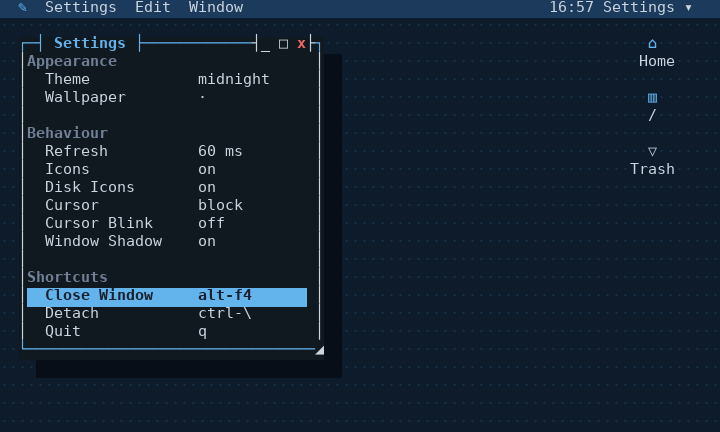
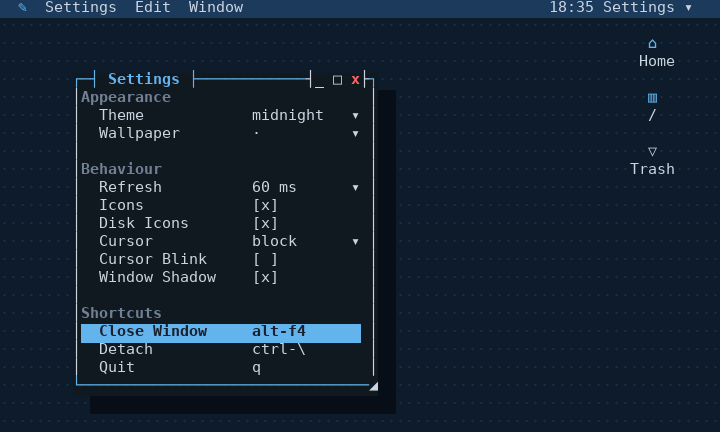
A widget library: a checkbox and a dropdown, proved on Settings
dt_check and dt_wdrop are draw helpers plus a per-window hit registry
(WG): an app draws what it wants shown and gets a tag back from
dt_hit when that region is clicked, the same contract _click already
has everywhere else. dt_droplist opens a real popup of choices
anchored under a dropdown, reusing dt_context_open and the MB/MI menu
machinery rather than a second popup system -- a dropdown is a
context menu with nowhere on the desktop it belongs to.

panel.hibr's Settings now draws its on/off rows as real checkboxes
and its multi-value rows as a dropdown caret instead of plain on/off
and cycling text, with no change to how they're driven (left/right/
enter still cycles a value; the widgets are the draw layer, proving
the library without touching the panel's well-tested activation
logic in the same pass).

Caught two of my own bugs writing the test coverage, not product
bugs: a name collision (the dropdown's own displayed value and its
first offered choice were both "one", so sc.find() matched the wrong
one) and the already-documented "a note is cleared by the next key,
including the quit sequence's own" trap, on a check I wrote without
first checking for it. Fixed by renaming the fixture's value and by
checking the note directly before run()'s own qy teardown, the same
pattern the about-note test already uses.

tests/desktop.py 154/154, tests/apps.py 112/112.
docs/desktop.md documents the widget contracts; the Icons test that
[…]

diff --git a/tests/desktop.py b/tests/desktop.py
@@ -160,6 +160,58 @@ check("Zoom is dimmed on the Window menu for it",
 check("and so is Resize",
       sc.find("Resize") is not None and sc.at(2, 22) != "r", sc)
 
+# --- widgets -----------------------------------------------------------
+#
+# dt_check and dt_wdrop are draw helpers plus a per-window hit registry
+# (WG); an app's own _click asks dt_hit which one, if any, was clicked and
+# updates its own state, the same contract as everywhere else in the
+# desktop. dt_droplist opens a popup of choices anchored under a dropdown,
+# reusing the same context-menu machinery a right-click uses.
+WIDGETS = ('dt_app wg "Widgets" 10 30 once "▢"\n'
+           'declare -A WGS\n'
+           'wg_draw() {\n'
+           '\tdt_wclear "$1"\n'
+           '\tdt_check "$1" 1 1 "${WGS[$1]:-0}" "Beep" chk\n'
+           '\tdt_wdrop "$1" 3 1 10 "pick" drp\n'
+           '}\n'
+           'wg_pick() { dt_note "picked $2"; }\n'
+           'wg_click() {\n'
+           '\tlocal id=$1 r=$2 c=$3 tag\n'
+           '\ttag := dt_hit "$id" "$r" "$c"\n'
+           '\tcase $tag in\n'
+           '\tchk) WGS[$id]=$((1 - ${WGS[$id]:-0})) ;;\n'
+           '\tdrp) dt_droplist "$id" "$r" "$c" wg_pick one two three ;;\n'
+           '\tesac\n'
+           '}\n'
+           'dt_launch wg\n')
+sc, _ = run(WIDGETS)
+check("dt_check draws an unchecked box and its label",
+      sc.find("[ ] Beep") == (5, 9), sc)
+check("dt_wdrop draws a value with a caret", sc.find("pick     ▾") == (7, 9), sc)
+sc, _ = run(WIDGETS, [press(5, 9)])
+check("clicking the checkbox's own cell checks it, through dt_hit",
+      sc.find("[x] Beep") == (5, 9), sc)
+sc, _ = run(WIDGETS, [press(5, 20)])
+check("but clicking past its region does nothing",
+      sc.find("[ ] Beep") == (5, 9), sc)
+sc, _ = run(WIDGETS, [press(7, 9)])
+check("clicking a dropdown opens a popup of its choices beneath it",
+      sc.find("one") == (8, 11) and sc.find("two") == (9, 11) and
+      sc.find("three") == (10, 11), sc)
+
+# A note lasts only until the next key, and run()'s own qy teardown is a
+# key -- checked before it, the same way the about-note test is.
+path = "/tmp/hibr-desktop-widgets.hibr"
+open(path, "w").write("%s. %s\n%s\ndt_open\n%s\ndt_run\ndt_close\n"
+                      % (load(MOD), WM, "", WIDGETS))
+t = Term(path, env={"DT_TICK": "60"}, rows=ROWS, cols=COLS, settle=0.6)
+t.keys([press(7, 9), press(9, 10)])
+sc = t.screen()
+check("choosing one runs the callback with the id and the value",
+      sc.find("picked two") is not None and sc.find("three") is None, sc)
+t.quit(b"qy", 1.2)
+os.unlink(path)
+
 # --- right-click context menus ---------------------------------------------
 #
 # ctx has both _click and _context: right-click must reach _context, not
@@ -927,4 +979,4 @@ check("ending it leaves the other one alone",
       "personal" in r.stdout and "work" not in r.stdout, r.stdout)
 unsession()
 
-report(148)
+report(154)

diff --git a/tests/apps.py b/tests/apps.py
@@ -231,8 +231,9 @@ check("down skips the blank line and the heading, landing on Refresh",
 DOWN4 = [b"\x1b[B"] * 15
 
 sc = run(*PANEL, feed=[b"\x1b[B"] * 3 + [b"\r"], pre=TICK, also=OTHER)
-check("the icons can be switched off, and the panel says so",
-      sc.find("Icons") is not None and "off" in sc.row(sc.find("Icons")[0]),
+check("the icons can be switched off, and the panel shows an unchecked box",
+      sc.find("Icons") is not None and
+      "[ ]" in sc.row(sc.find("Icons")[0]),
       sc)
 
 sc = run(*PANEL, feed=DOWN4 + [b"x"], pre=TICK, also=OTHER)

diff --git a/docs/desktop.md b/docs/desktop.md
@@ -285,7 +285,7 @@ between; the window manager deals with row 0 itself, so an app never sees a
 click on its own title bar.
 
 **A window that animates asks for its next frame.** The desktop redraws on
-every key and otherwise every `DT_TICK` milliseconds, 200 by default. A game
+every key and otherwise every `DT_TICK` milliseconds, 2000 by default. A game
 calls `dt_want 60` from its `_draw` to be drawn again within 60 ms. The
 request lasts one frame, so a game that is paused, hidden or not focused
 stops asking and the desktop goes back to idling. Step on the clock, not on
@@ -300,6 +300,49 @@ be closed for a nonzero exit, since that is worth seeing before the window
 goes. The close itself happens once the frame that asked is fully drawn, not
 from inside `_draw` -- calling `dt_del` there would pull the window's pane
 out from under the border the frame still has left to draw over it.
+
+## Widgets
+
+A checkbox and a dropdown, for the two things almost every settings screen
+needs. Neither keeps state of its own -- they draw what an app tells them to
+and hand back a tag when their region is clicked, the same contract as
+`_click` itself; the app updates its own state, under its own window id, the
+same as anywhere else.
+
+`dt_wclear id` forgets a window's widget regions -- call it at the top of
+`_draw`, before drawing any widget, since a scrolled list moves them and
+last frame's regions must not answer this frame's click.
+
+`dt_check id row col on label [tag]` draws `[x] label` or `[ ] label`.
+`dt_wdrop id row col width value [tag]` draws a value padded to `width`
+columns with a caret after it: `value ▾`. Both take pane-relative
+coordinates, the same ones `_draw` and `_click` already use, and both
+default `tag` to `label`/`value` if left off.
+
+`dt_hit id row col` answers which widget, if any, is at a click -- an app's
+`_click` asks it first, and falls back to its own per-row logic when it
+comes back empty:
+
+```sh
+hello_click() {
+	local id=$1 r=$2 c=$3 tag
+
+	tag := dt_hit "$id" "$r" "$c"
+	case $tag in
+	sound) HS[$id]=$((1 - ${HS[$id]:-0})) ;;
+	esac
+}
+```
+
+A dropdown that offers more than a couple of values wants a real list rather
+than a click-to-cycle: `dt_droplist id row col callback val1 val2...` opens
+one, anchored just under the `dt_wdrop` that asked for it, built the next
+frame the same one-frame lag `dt_want` and a right-click's context menu
+both already have. Choosing a value calls `callback id value`; dismissing it
+calls nothing. It is a context menu with nowhere on the desktop it belongs
+to, which is exactly what a dropdown is -- it reuses the same context-menu
+machinery a right-click already builds on, rather than a second popup system
+of its own.
 
 ## The apps
 
